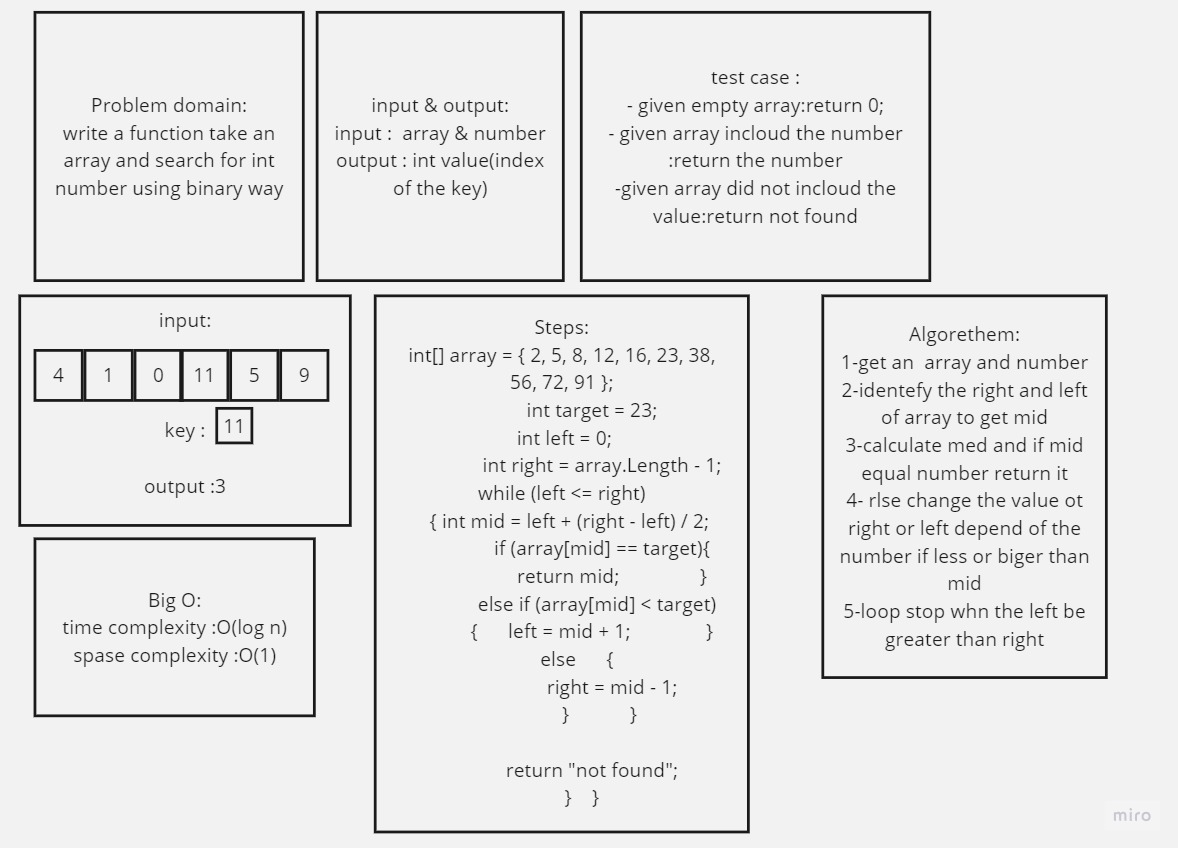
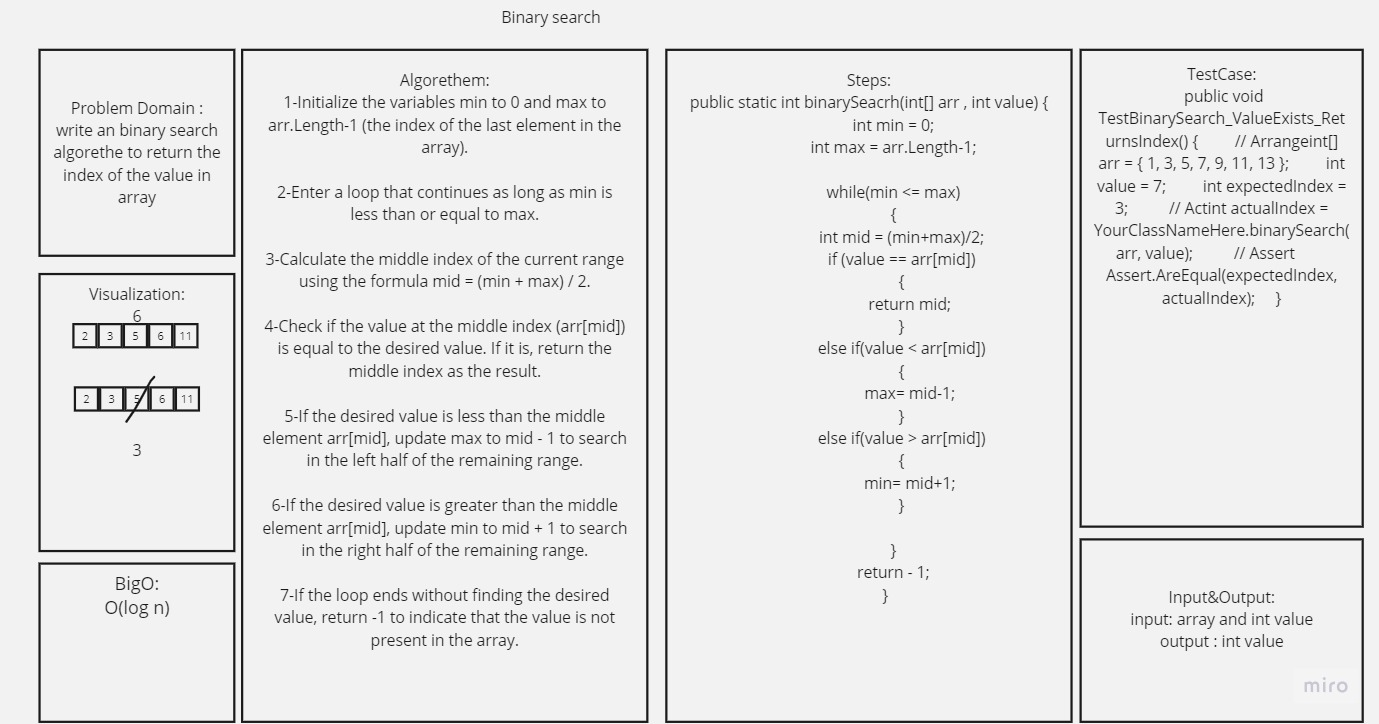
done

Changed region(s): [[0.0, 0.0, 1.0, 1.0], [0.6112, 0.7597, 0.6418, 0.8204]]

diff --git a/Data_Stucture_AndAlgoerthem/array-binary-search/array-binary-search/array-binary-search/Program.cs b/Data_Stucture_AndAlgoerthem/array-binary-search/array-binary-search/array-binary-search/Program.cs
@@ -4,36 +4,38 @@
     {
         static void Main(string[] args)
         {
-            int[] array = { 2, 5, 8, 12, 16, 23, 38, 56, 72, 91 };
-            int target = 23;
 
-                int left = 0;
-                int right = array.Length - 1;
 
-                while (left <= right)
+        }
+        public static int binarySeacrh(int[] arr , int value) {
+            int min = 0;
+            int max = arr.Length-1;
+
+            while(min <= max)
+            {
+                int mid = (min+max)/2;
+                if (value == arr[mid])
                 {
-                int mid = left + (right - left) / 2;
-                if (array[mid] == target)
-                {
-                    return mid; 
+                    return mid;
                 }
-                else if (array[mid] < target)
+                else if(value < arr[mid])
                 {
-                    left = mid + 1; 
+                    max= mid-1;
                 }
-                else
+                else if(value > arr[mid])
                 {
-                    right = mid - 1;
+                    min= mid+1;
                 }
+
             }
-
-            return "not found"; 
+            return - 1;
         }
 
     }
-        }
 
-       
+    
+    
+        
+    
 
-    }
 }

diff --git a/Data_Stucture_AndAlgoerthem/array-binary-search/README.md b/Data_Stucture_AndAlgoerthem/array-binary-search/README.md
@@ -2,4 +2,5 @@
 
 
 
+
 ![](img.jpg)
